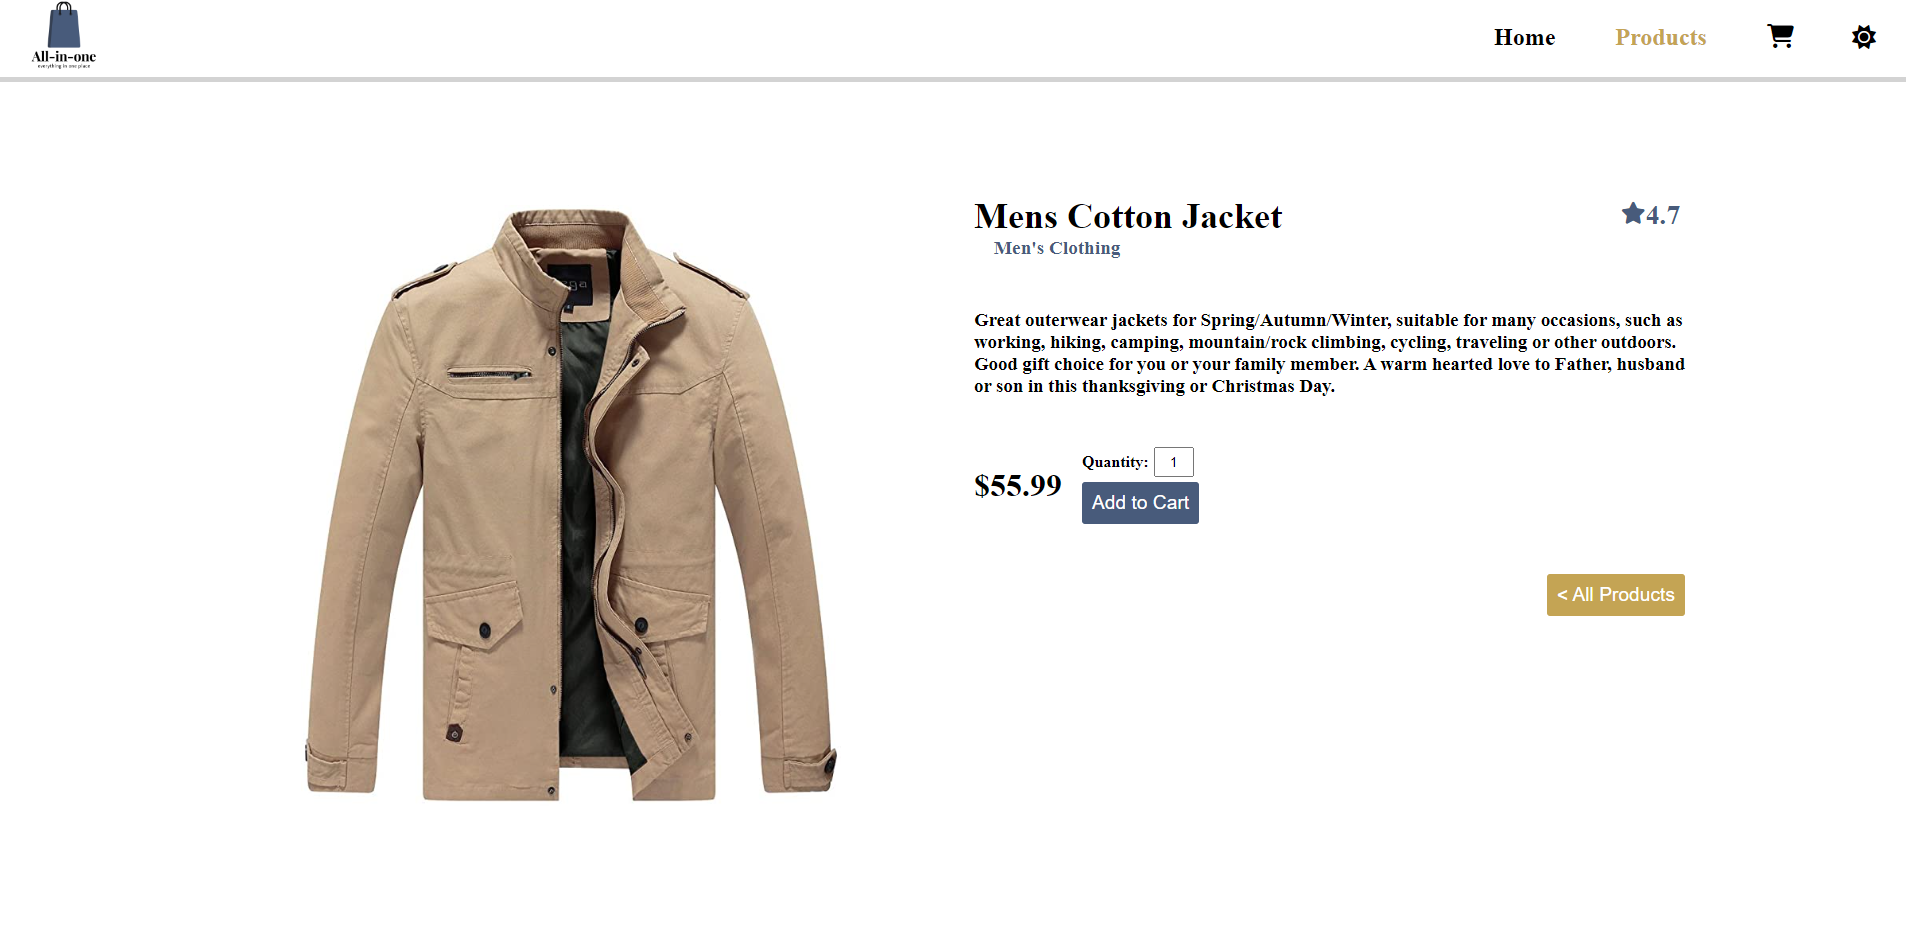
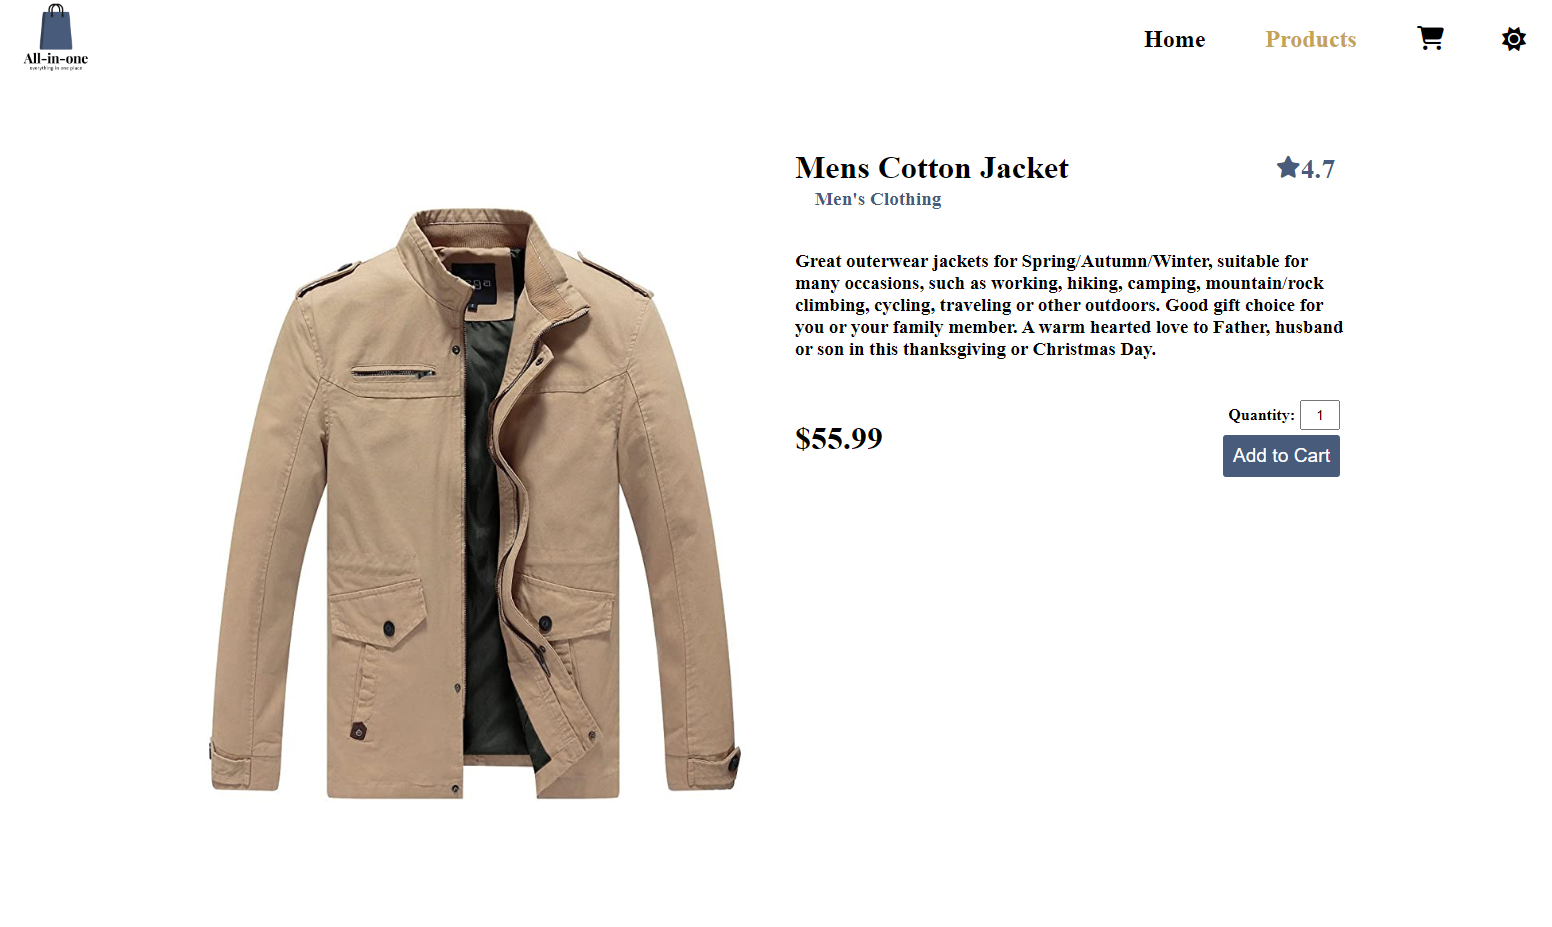
formatted layout for project detail section

diff --git a/src/services/ProjectData.js b/src/services/ProjectData.js
@@ -10,8 +10,13 @@ export const projectData = [
     title: "E Commerce Application",
     description: [
       "Online store application created with React.",
-      "Fetches an API and displays products on the page for user.",
-      "Added items are stored in the app context for later purchase.",
+      "Uses an API for it's core functionality.",
+      "Fetches data from the API using a get request.",
+      "Application stores product data and displays on the page for user using the JavaScript map method.",
+      "User can filter data by category so the application only displays specific products.",
+      "Detail page included for each item where user can see specific information about the item and add it to the cart.",
+      "Cart items are stored in the application context where they can be retrieved, updated, and deleted anywhere in the application.",
+      "Saved cart items are then available to be purchased in the application checkout page.",
     ],
     link: "https://spencerwhitlow.com/e-commerce-application/",
     image: eCommerce,

diff --git a/src/components/projects/Projects.css b/src/components/projects/Projects.css
@@ -83,13 +83,13 @@
   /* justify-content: center; */
   /* align-items: center; */
   position: relative;
-  padding: 1% 1% 1% 2%;
+  padding: 5% 1% 1% 2%;
   color: white;
-  gap: 20px;
+  gap: 30px;
 }
 
 .detail-one {
-  width: 60%;
+  width: 55%;
   display: flex;
   flex-direction: column;
   gap: 2px;
@@ -98,7 +98,7 @@
 }
 
 .detail-two {
-  width: 40%;
+  width: 45%;
   display: flex;
   flex-direction: column;
   /* justify-content: center; */
@@ -129,6 +129,8 @@
   border-top: none;
   outline: none;
   background-color: #c4ced5;
+  font-weight: bold;
+  font-size: 1rem;
 }
 
 .detail-links button:hover {
